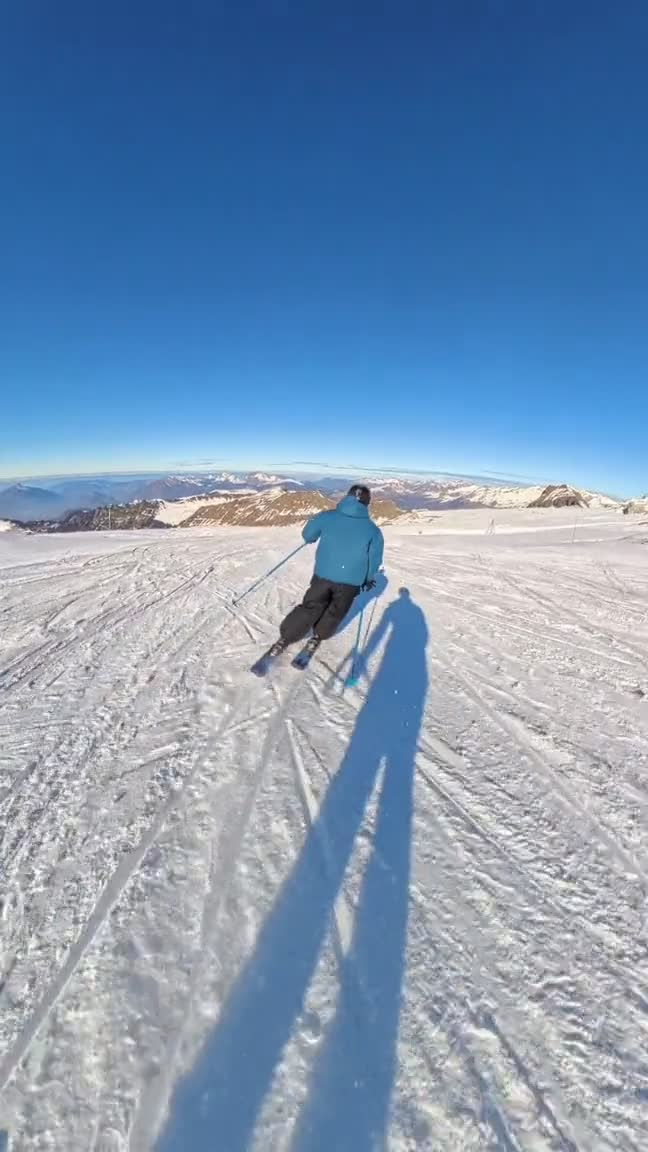
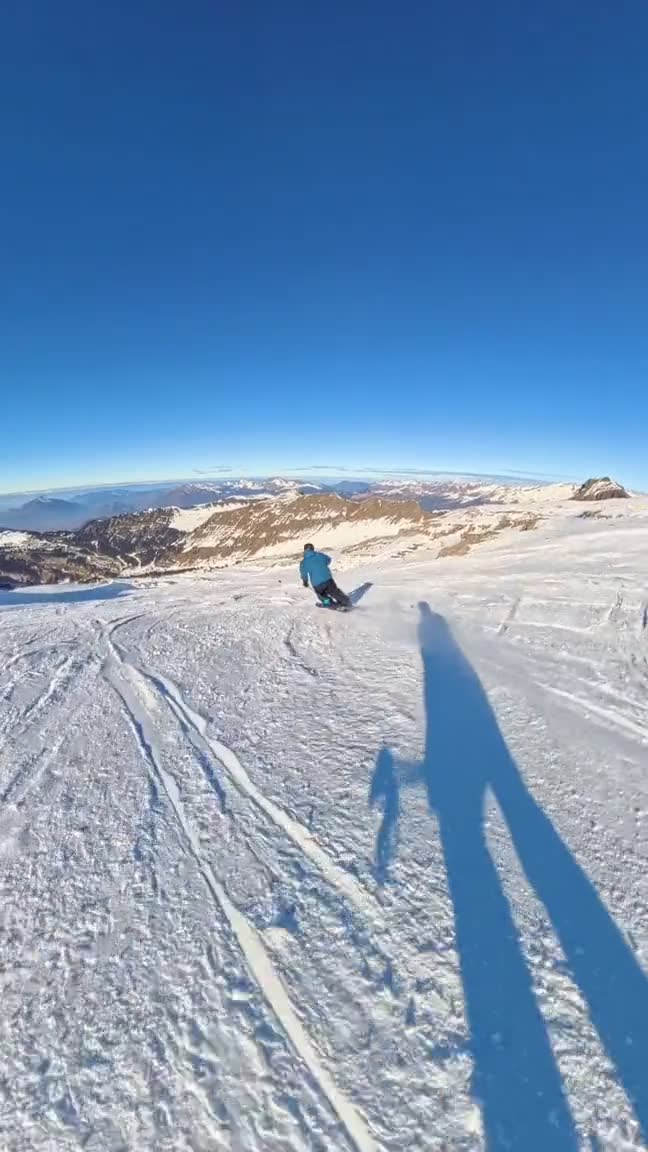
Round 4 tweaks: hero fit, film box colour+size, ski swaps, tighter marathon, lifestyle grid
- Hero name sized down so it fits inside the video (no overflow)
- Film box background matched to screenshot #0f0f0f and shrunk
- Skiing: slalom→jump, indoor→cliff, montage→new carving clip
- Marathon block compressed into one tight band
- Personality: removed text tile, five lifestyle photos (fixed span bug)

diff --git a/index.html b/index.html
@@ -363,12 +363,12 @@ nav{
   margin-top:44px;
   align-items:start;
 }
-.play-grid .ph:nth-child(1){grid-column:span 2;}
-.play-grid .ph:nth-child(2){grid-column:span 2;margin-top:33px;}
-.play-grid .ph:nth-child(3){grid-column:span 2;}
-.play-grid .ph:nth-child(4){grid-column:span 2;margin-top:22px;}
-.play-grid .ph:nth-child(5){grid-column:span 2;}
-.play-grid .ph:nth-child(6){grid-column:span 2;margin-top:33px;}
+.play-grid > *{overflow:hidden;}
+.play-grid > *:nth-child(1){grid-column:span 3;}
+.play-grid > *:nth-child(2){grid-column:span 3;}
+.play-grid > *:nth-child(3){grid-column:span 2;}
+.play-grid > *:nth-child(4){grid-column:span 2;margin-top:22px;}
+.play-grid > *:nth-child(5){grid-column:span 2;}
 
 /* ---------- contact ---------- */
 .contact{
@@ -467,19 +467,19 @@ nav{
 .hero-frame{position:relative;}
 .hero-name{
   position:absolute;
-  top:18px;
+  top:16px;
   left:0;
   right:0;
   margin:0;
-  padding:0 3vw;
+  padding:0 2vw;
   text-align:center;
   white-space:nowrap;
   font-family:var(--ogg);
   font-weight:400;
   color:#fff;
-  font-size:clamp(24px,8.2vw,116px);
+  font-size:clamp(20px,6vw,78px);
   line-height:1;
-  letter-spacing:-0.02em;
+  letter-spacing:-0.035em;
   text-shadow:0 2px 24px rgba(0,0,0,0.35);
 }
 .hero-ladder{max-width:22ch;}
@@ -490,16 +490,15 @@ nav{
 .textcard .tile-title{margin-top:0;}
 .tl-desc{font-family:var(--telegraf);font-size:18px;line-height:1.5;letter-spacing:0.38px;margin-top:11px;}
 
-/* ---------- black film box (even padding, seamless bg) ---------- */
+/* ---------- film box (padding + bg matched to the screenshot #0f0f0f) ---------- */
 .filmbox-dark{
-  background:var(--black);
+  background:#0f0f0f;
   display:flex;
   align-items:center;
   justify-content:center;
-  padding:44px;
-  aspect-ratio:16/7;
+  padding:26px 22px;
 }
-.filmbox-dark img{width:100%;height:auto;max-height:100%;object-fit:contain;}
+.filmbox-dark img{width:100%;max-width:440px;height:auto;display:block;}
 
 /* ---------- run club ---------- */
 .run-grid{
@@ -515,16 +514,17 @@ nav{
 .run-grid .rp img{width:100%;height:100%;object-fit:cover;display:block;}
 .run-grid .tall{aspect-ratio:3/4;}
 .run-note{
-  margin-top:44px;
+  margin-top:18px;
   display:grid;
-  grid-template-columns:1fr 1fr;
-  gap:44px;
+  grid-template-columns:190px 1fr 1.2fr;
+  gap:24px;
   align-items:center;
 }
-.run-note .marie{max-width:300px;}
-.run-note .marie img{width:100%;border:1px solid var(--ink);}
-.run-note p{font-size:20px;line-height:1.33;}
-.run-note p .big{font-family:var(--ogg);font-size:26px;letter-spacing:-0.52px;font-style:italic;}
+.run-note .marie img{height:240px;width:auto;max-width:100%;margin:0 auto;border:1px solid var(--ink);display:block;}
+.run-note p{font-size:18px;line-height:1.4;letter-spacing:0.38px;}
+.run-note p .big{font-family:var(--ogg);font-size:24px;letter-spacing:-0.4px;font-style:italic;}
+.run-note .rm{overflow:hidden;aspect-ratio:16/10;}
+.run-note .rm img{width:100%;height:100%;object-fit:cover;display:block;}
 
 /* ---------- research evidence ---------- */
 .sem-pair{
@@ -586,8 +586,7 @@ nav{
   .ski-grid{grid-template-columns:1fr 1fr;}
   .ski-grid > div{margin-top:0;}
   .play-grid{grid-template-columns:1fr 1fr;}
-  .play-grid .ph:nth-child(n){grid-column:auto;margin-top:0;}
-  .play-grid .artbox:nth-child(n){grid-column:auto;margin-top:0;}
+  .play-grid > *{grid-column:auto !important;margin-top:0;}
   .skills-grid{grid-template-columns:1fr 1fr;}
   .sem-pair{grid-template-columns:1fr;}
   .run-grid{grid-template-columns:1fr 1fr;}
@@ -751,10 +750,10 @@ nav{
     </div>
 
     <div class="ski-grid">
-      <div class="sv"><video autoplay muted loop playsinline preload="metadata" poster="assets/ski-montage.jpg" aria-label="Skiing down an alpine piste, filmed while riding"><source src="assets/ski-montage.mp4" type="video/mp4"></video></div>
-      <div class="sv"><video autoplay muted loop playsinline preload="metadata" poster="assets/ski-slalom.jpg" aria-label="Carving slalom gates in slow motion"><source src="assets/ski-slalom.mp4" type="video/mp4"></video></div>
+      <div class="sv"><video autoplay muted loop playsinline preload="metadata" poster="assets/ski-montage.jpg" aria-label="Carving down a sunlit piste, filmed while riding"><source src="assets/ski-montage.mp4" type="video/mp4"></video></div>
+      <div class="sv"><video autoplay muted loop playsinline preload="metadata" poster="assets/ski-jump.jpg" aria-label="Launching off a kicker in slow motion"><source src="assets/ski-jump.mp4" type="video/mp4"></video></div>
       <div class="sv"><video autoplay muted loop playsinline preload="metadata" poster="assets/ski-park-air.jpg" aria-label="Airborne off a snow park kicker in slow motion"><source src="assets/ski-park-air.mp4" type="video/mp4"></video></div>
-      <div class="sv"><video autoplay muted loop playsinline preload="metadata" poster="assets/ski-indoor.jpg" aria-label="Sliding a rail at the indoor snow centre"><source src="assets/ski-indoor.mp4" type="video/mp4"></video></div>
+      <div class="sv"><video autoplay muted loop playsinline preload="metadata" poster="assets/ski-cliff.jpg" aria-label="Dropping into powder off a small cliff"><source src="assets/ski-cliff.mp4" type="video/mp4"></video></div>
       <div class="sv"><video autoplay muted loop playsinline preload="metadata" poster="assets/ski-offpiste.jpg" aria-label="Off piste in a snowstorm beside the trees"><source src="assets/ski-offpiste.mp4" type="video/mp4"></video></div>
       <div class="sv"><video autoplay muted loop playsinline preload="metadata" poster="assets/ski-pov.jpg" aria-label="Following a friend down a sunny piste, filmed while skiing"><source src="assets/ski-pov.mp4" type="video/mp4"></video></div>
     </div>
@@ -946,10 +945,9 @@ nav{
 
     <div class="run-note">
       <div class="marie"><img src="assets/marie-curie.jpg" alt="Marie Curie fundraising page showing £1,647 raised, 66 percent of a £2,500 target"></div>
-      <p>For the 2026 London Marathon I ran for <span class="big">Marie Curie</span> and raised £1,647 from 64 donors, two thirds of the way to the target, with a crowd of mates on Horse Guards holding a "GO TIGGY" sign at the finish.</p>
+      <p>For the 2026 London Marathon I ran for <span class="big">Marie Curie</span> and raised £1,647 from 64 donors, two thirds of the target, with a crowd of mates holding a "GO TIGGY" sign at the finish.</p>
+      <div class="rm"><img src="assets/marathon.jpg" alt="Friends at the London Marathon finish with GO TIGGY and Release the Tiger signs"></div>
     </div>
-
-    <div class="artbox ratio-wide" style="margin-top:18px;"><img src="assets/marathon.jpg" alt="Friends at the London Marathon finish with GO TIGGY and Release the Tiger signs"></div>
   </section>
 
   <!-- SKILLS -->
@@ -1004,11 +1002,10 @@ nav{
 
     <div class="play-grid">
       <div class="artbox ratio-landscape"><img src="assets/surf-cutback.jpg" alt="Surfer carving off the top of a wave, spray flying"></div>
-      <div class="artbox ratio-portrait"><img src="assets/skate.jpg" alt="Skateboarding a rail at the local park"></div>
       <div class="artbox ratio-landscape"><img src="assets/beach.jpg" alt="Two people playing badminton on the beach as the sun sets over the sea"></div>
+      <div class="artbox ratio-portrait"><img src="assets/skate.jpg" alt="Skateboarding a rail at the local park"></div>
       <div class="artbox ratio-landscape"><img src="assets/travel-cirque.jpg" alt="Three friends on a grassy ridge in front of a mountain cirque"></div>
       <div class="artbox ratio-landscape"><img src="assets/surf.jpg" alt="Lone surfer riding a small wave under a pink dawn sky, shot from the water"></div>
-      <div class="ph ratio-square"><span class="tag">CLIMB / PIANO / 日本語 / PC BUILDS / CHESS</span></div>
     </div>
   </section>
 